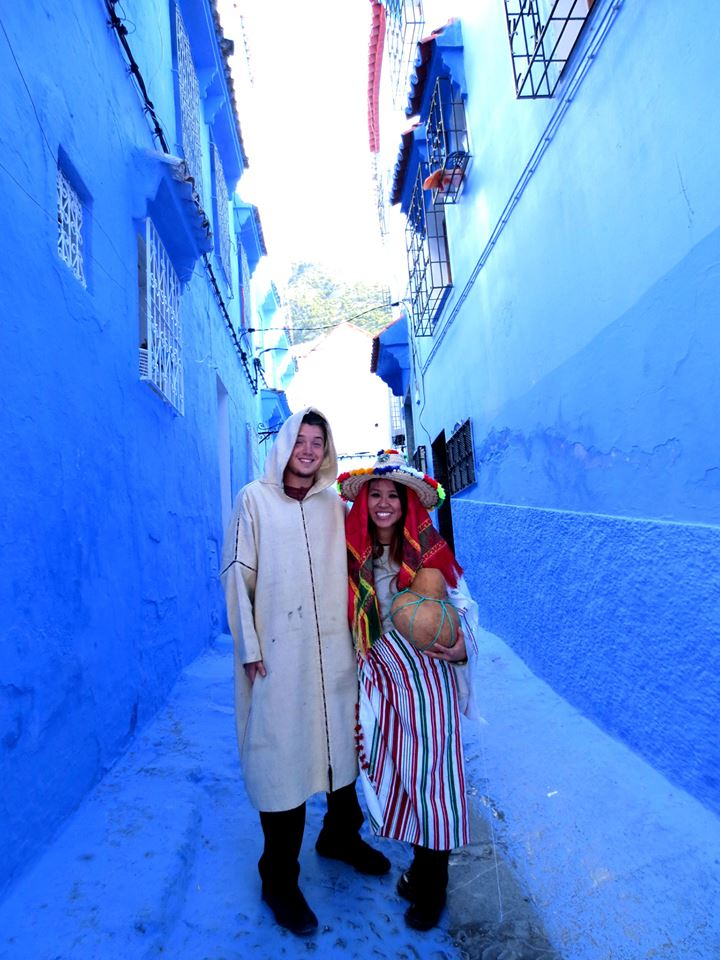
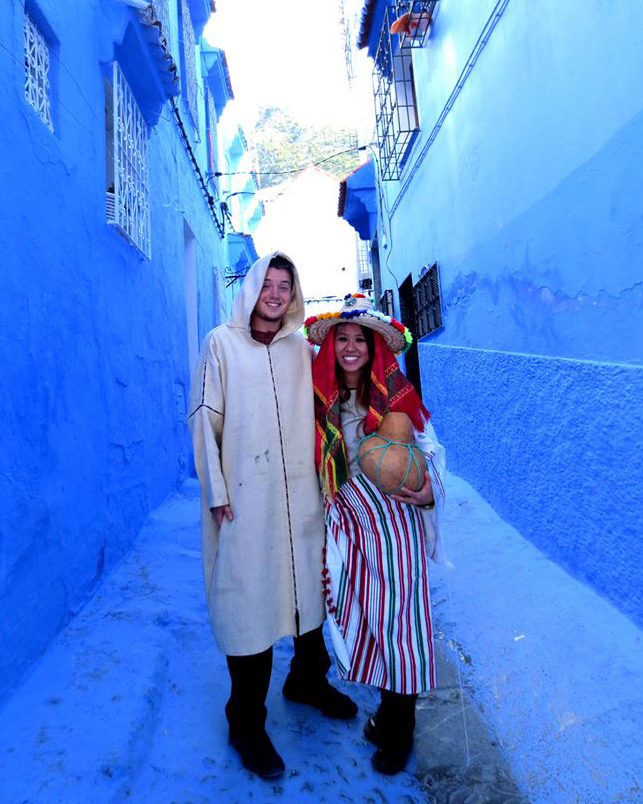
Nav, FAQ, Main
NAV:
made taller for everything but small

FAQ:
updated nav and footer

MAIN:
made blue photo physically smaller, and also made it take up less space
on xs
media queries for xs to take up less space
added mailto:
added padding throughout

To Finish Volunteerism Abroad:

Main Section

add photo collage and testimonial under who we are
anchor links are making me crazy plz halp
update contact form modal if time
add some simple animation

diff --git a/Volunteerism_Abroad/index.html b/Volunteerism_Abroad/index.html
@@ -38,24 +38,22 @@
                     <span class="sr-only">Toggle navigation</span>
                     <span class="glyphicon glyphicon-menu-hamburger"></span>
                 </button>
-            <a class="navbar-brand" href="index.html"><img id="nav_logo" src="img/VALogoWhite.png"></a>
-        </div>
-           
+                <a class="navbar-brand" href="index.html"><img id="nav_logo" src="img/VALogoWhite.png"></a>
+            </div>
+
 
             <!-- Collect the nav links, forms, and other content for toggling -->
             <div class="collapse navbar-collapse navbar-right" id="bs-example-navbar-collapse-1">
                 <ul class="nav navbar-nav">
-                            <li><a href="#about_us">About Us</a></li>
-                            <li><a href="#program">The Program</a></li>
-                            <li><a href="#stay">Where You'll Stay</a></li>
-                            <li role="separator" class="divider"></li>
-                            <li><a href="#our_story">Our Story</a></li>
-                            <li role="separator" class="divider"></li>
-                            <li><a href="faq.html">FAQ</a></li>
+                    <li><a href="#nav_about_us">About Us</a></li>
+                    <li><a href="#nav_program">The Program</a></li>
+                    <li><a href="#nav_stay">Where You'll Stay</a></li>
+                    <li><a href="#nav_our_story">Our Story</a></li>
+                    <li><a href="faq.html">FAQ</a></li>
                 </ul>
             </div>
             <!-- /.navbar-collapse -->
- </div>
+        </div>
         <!-- /.container-fluid -->
     </nav>
 
@@ -109,7 +107,7 @@
     </header>
 
     <!--    WHO ARE WE SECTION-->
-
+    <div id="nav_about_us"></div>
     <div class="container-fluid" id="about_us">
         <div class="row">
 
@@ -132,11 +130,11 @@
 
             <div class="col-xs-12 col-sm-6">
 
-                <div class="col-xs-12">
+                <div class="col-xs-8 col-xs-offset-2 col-sm-10 col-sm-offset-1 padded_img">
                     <img class="img-responsive" src="img/photos_leftmiddle.jpg">
                 </div>
-
-                <div class="col-xs-12 col-sm-10 col-sm-offset-1">
+                <div id="nav_stay"></div>
+                <div class="col-xs-10 col-xs-offset-1">
 
                     <h3>WHERE WILL I STAY?</h3>
 
@@ -145,10 +143,10 @@
                 </div>
 
             </div>
-
+            <div id="nav_program"></div>
             <div class="col-xs-12 col-sm-6" id="program">
 
-                <div class="col-xs-12 col-sm-10 col-sm-offset-1">
+                <div class="col-xs-10 col-xs-offset-1">
 
                     <h3>THE MORROCCAN PROGRAM</h3>
 
@@ -156,7 +154,7 @@
 
                 </div>
 
-                <div class="col-xs-12 col-sm-10 col-sm-offset-1">
+                <div class="col-xs-10 col-xs-offset-1">
 
                     <h3>WHAT WILL I BE DOING IN MORROCCO?</h3>
 
@@ -172,7 +170,7 @@
 
                 </div>
 
-                <div class="col-xs-12">
+                <div class="col-xs-10 col-xs-offset-1 padded_img">
                     <img class="img-responsive" src="img/photos_rightmiddle.jpg">
                 </div>
 
@@ -182,12 +180,11 @@
 
         <!--    CONTACT US BUTTON -->
 
-
         <div class="row">
 
             <div class="text-center">
 
-                <a id="contact_button" class="btn btn-default" href="contactus">CONTACT US</a>
+                <a id="contact_button" class="btn btn-default" href="mailto:hello@volunteerismabroad.com?subject=Morroccan Program">CONTACT US</a>
 
             </div>
 
@@ -198,6 +195,7 @@
     <!--    NEXT TWO SECTIONS IN ONE CONTAINER-->
     <!--    RED BAR HISTORY TITLE -->
 
+    <div id="nav_our_story"></div>
     <div class="container-fluid" id="our_story">
 
         <div class="row my_history">
@@ -214,7 +212,7 @@
 
             <div class="col-xs-10 col-xs-offset-1">
 
-                <p class="text-justify">Volunteerism Abroad was founded in 2015 by Chad Pettit. After volunteering and traveling abroad while getting his Bachelors degree in Geography / International Studies minor he went back and interned with the NGO he volunteered through in Morocco. It was in Morocco during his internship he saw what many people’s experiences were lacking and why many people never make it abroad in the first place. He made his fist partners there and Volunteerism Abroad became what it is today. The first person you will meet on your Skype interview will be Chad, and the first person you meet upon arriving to your volunteer destination will be Chad. Like mentioned in the who we are section we are an intimate group that doesn’t put it’s volunteers into the hands of strangers. Small and new you are not a number to us! </p>
+                <p class="text-justify my_history_words">Volunteerism Abroad was founded in 2015 by Chad Pettit. After volunteering and traveling abroad while getting his Bachelors degree in Geography / International Studies minor he went back and interned with the NGO he volunteered through in Morocco. It was in Morocco during his internship he saw what many people’s experiences were lacking and why many people never make it abroad in the first place. He made his fist partners there and Volunteerism Abroad became what it is today. The first person you will meet on your Skype interview will be Chad, and the first person you meet upon arriving to your volunteer destination will be Chad. Like mentioned in the who we are section we are an intimate group that doesn’t put it’s volunteers into the hands of strangers. Small and new you are not a number to us! </p>
             </div>
 
             <div class="col-xs-12 text-center">
@@ -229,7 +227,7 @@
 
     <footer class="container-fluid" id="my_footer">
 
-        <div class="row" >
+        <div class="row">
 
             <div class="col-xs-4 col-sm-offset-1">
 

diff --git a/Volunteerism_Abroad/faq.html b/Volunteerism_Abroad/faq.html
@@ -38,25 +38,7 @@
                     <span class="sr-only">Toggle navigation</span>
                     <span class="glyphicon glyphicon-menu-hamburger"></span>
                 </button>
-<<<<<<< Updated upstream
-                <a class="navbar-brand" href="index.html"><h4>VOLUNTEERISM ABROAD</h4></a>
-            </div>
-
-            <!-- Collect the nav links, forms, and other content for toggling -->
-            <div class="collapse navbar-collapse" id="bs-example-navbar-collapse-1">
-                <ul class="nav navbar-nav navbar-right">
-                    <li><a href="/index.html#about_us">About Us</a></li>
-                    <li><a href="/index.html#program">The Program</a></li>
-                    <li><a href="/index.html#stay">Where You'll Stay</a></li>
-                    <li role="separator" class="divider"></li>
-                    <li><a href="index.html#our_story">Our Story</a></li>
-                    <li role="separator" class="divider"></li>
-                    <li><a href="faq.html">FAQ</a></li>
-                </ul>
-            </div>
-            <!-- /.navbar-collapse -->
-        </div>
-=======
+                
             <a class="navbar-brand" href="index.html"><img id="nav_logo" src="img/VALogoWhite.png"></a>
         </div>
            
@@ -69,7 +51,6 @@
             </div>
             <!-- /.navbar-collapse -->
  </div>
->>>>>>> Stashed changes
         <!-- /.container-fluid -->
     </nav>
 

diff --git a/Volunteerism_Abroad/css/style.css b/Volunteerism_Abroad/css/style.css
@@ -18,9 +18,21 @@ body {
 
 h3 {
     color: #b94c2f;
+    padding-top: 8%;
 }
 
 
+.my_history h3{
+    padding-top: 0;
+}
+
+.my_history_words{
+    padding: 3% 0;
+}
+
+.padded_img img{
+    padding-top: 8%;  
+}
 
 /*Navbar Styles*/
 
@@ -33,8 +45,13 @@ h3 {
     height: 75px;
 }
 
+.navbar #bs-example-navbar-collapse-1{
+    padding-top: 25px;
+}
+
 .glyphicon-menu-hamburger {
     color: white; 
+    height: ;
 }
 
 .navbar-toggle {
@@ -42,7 +59,7 @@ h3 {
 }
 
 #nav_logo{
-    height: 100%;
+    height: 250%;
 }
 
 .navbar .navbar-nav li a {
@@ -159,6 +176,16 @@ h6 {
     
     #myCarousel .carousel-caption h1{
     font-size: 1.8em;
+    }
+    
+    .navbar{
+        height: 50px;
+    }
+    
+    #nav_logo{
+        height: 150%;
+}
+    
 }
 
 }
